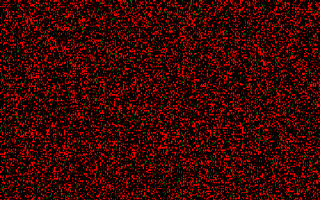
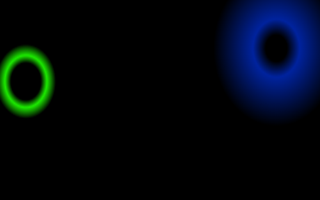
add new effect

diff --git a/effects/Bloom.html b/effects/Bloom.html
@@ -1,11 +1,20 @@
 <!DOCTYPE html><html>
 <head>
-    <title>ORGB: Bloom</title>
-    <meta description="Flower blooming effect.">
-    <meta publisher="Jose Miranda (Port and improvements)">
+    <title>Bloom</title>
+    <meta description="Growing flowers of light blooming to the rythm of your music.">
+    <meta publisher="Jose Miranda">
 
-    <meta property="speed" label="Speed" type="number" min="10" max="200" default="100">
-    <meta property="saturation" label="Saturation" type="number" min="0" max="255" default="255">
+    <meta property="soundResponsive" label="Sound Responsive" type="boolean" default="1">
+    <meta property="audio_trigger" label="Audio Trigger (%)" type="number" min="1" max="100" default="30">
+    
+    <meta property="palette" label="Color Palette" type="combobox" values="Audio-Reactive,Rainbow,Lava,Ocean,Forest,Party,Heat,America,Aurora,Beach,Breeze,Bumblebee,C9,Cloud,Fairy Light,Holiday,Pastel,Sakura,Sunset,Technicolor,Vaporwave" default="Audio-Reactive">
+    
+    <meta property="speed" label="Growth Speed" type="number" min="1" max="100" default="20">
+    <meta property="max_blooms" label="Max Blooms" type="number" min="1" max="50" default="10">
+    <meta property="max_size" label="Max Size" type="number" min="1" max="200" default="80">
+    <meta property="spawn_rate" label="Spawn Rate / Audio Gate" type="number" min="1" max="100" default="30">
+    <meta property="bloom_thickness" label="Bloom Thickness" type="number" min="1" max="100" default="20">
+    <meta property="saturation" label="Saturation (Audio/Rainbow)" type="number" min="0" max="255" default="255">
 
     <style>
         body, html {
@@ -18,10 +27,6 @@
             display: block;
             width: 100%;
             height: 100%;
-            image-rendering: -moz-crisp-edges;
-            image-rendering: -webkit-crisp-edges;
-            image-rendering: pixelated;
-            image-rendering: crisp-edges;
         }
     </style>
 
@@ -38,33 +43,122 @@
 
 const canvas = document.getElementById('bloom-canvas');
 const ctx = canvas.getContext('2d');
-
-// --- ADDED: Disable image smoothing ---
-ctx.imageSmoothingEnabled = false;
-ctx.mozImageSmoothingEnabled = false;
-ctx.webkitImageSmoothingEnabled = false;
-
 const canvasWidth = canvas.width;
 const canvasHeight = canvas.height;
 
-let flowers = []; // This will store the state for each "flower" (pixel)
+let flowers = []; // This will store our active flower objects
+let lastSpawnTime = 0;
 
 // -------------------------------------------------------------------
-// HELPER FUNCTIONS
+// COLOR PALETTES & HELPERS
 // -------------------------------------------------------------------
+
+const wledPalettes = {
+    "Rainbow": ["#FF0000", "#FFFF00", "#00FF00", "#00FFFF", "#0000FF", "#FF00FF"],
+    "Lava": ["#FF0000", "#FF4500", "#FFD700", "#000000"],
+    "Ocean": ["#00008B", "#0000CD", "#00BFFF", "#FFFFFF"],
+    "Forest": ["#006400", "#228B22", "#008000", "#556B2F"],
+    "Party": ["#FF0000", "#00FF00", "#0000FF", "#FFFF00", "#FF00FF", "#00FFFF"],
+    "Heat": ["#000000", "#FF0000", "#FFFF00", "#FFFFFF"],
+    "America": ["#B22234", "#FFFFFF", "#3C3B6E"],
+    "Aurora": ["#00FF00", "#00FFFF", "#8A2BE2", "#00008B"],
+    "Beach": ["#FDB813", "#F6D55C", "#79AEC8", "#EDF5E1", "#33658A"],
+    "Breeze": ["#87CEEB", "#ADD8E6", "#B0E0E6", "#FFFFFF"],
+    "Bumblebee": ["#000000", "#FEE12B", "#FEE12B", "#000000"],
+    "C9": ["#FF0000", "#00FF00", "#0000FF", "#FFA500", "#FFFFFF"],
+    "Cloud": ["#FFFFFF", "#D0D0E0", "#A0A0C0", "#7070A0", "#404080", "#101060", "#000040"],
+    "Fairy Light": ["#FF000080", "#00FF0080", "#0000FF80", "#FFFF0080"],
+    "Holiday": ["#D92626", "#0E592D", "#F2B705", "#F2F2F2"],
+    "Pastel": ["#FFDDC1", "#FFABAB", "#FFC3A0", "#FF869A", "#D4A5A5"],
+    "Sakura": ["#FFC0CB", "#FFB6C1", "#DB7093", "#FFFFFF", "#FF1493"],
+    "Sunset": ["#FF4500", "#FFA500", "#FFD700", "#FFFF00", "#FF69B4", "#8A2BE2", "#4B0082"],
+    "Technicolor": ["#FF0000", "#00FF00", "#0000FF", "#FFFFFF", "#000000"],
+    "Vaporwave": ["#FF71CE", "#B967FF", "#01CDFE", "#05FFA1", "#FFFB96"]
+};
 
 /**
- * Resets and initializes the state for every pixel.
- * Each pixel gets a random starting hue and a random speed multiplier.
+ * Converts Hex color string to [r, g, b] array
  */
-function resetFlowers() {
-    flowers = []; // Clear the existing array
-    for (let i = 0; i < canvasWidth * canvasHeight; i++) {
-        flowers.push({
-            hue: Math.random() * 360, // Random starting hue (0-360)
-            speed_mult: Math.random() + 1, // Random speed multiplier (1.0-2.0)
-        });
+function hexToRgb(hex) {
+    if (!hex) return [255, 0, 0]; // Fallback
+    const r = parseInt(hex.slice(1, 3), 16);
+    const g = parseInt(hex.slice(3, 5), 16);
+    const b = parseInt(hex.slice(5, 7), 16);
+    return [r, g, b];
+}
+
+/**
+ * Converts HSL color to RGB.
+ * h (0-360), s (0-100), l (0-100)
+ * Returns [r, g, b] array (0-255)
+ */
+function hslToRgb(h, s, l) {
+    s /= 100; // Convert to 0-1
+    l /= 100; // Convert to 0-1
+
+    let r, g, b;
+    if (s === 0) {
+        r = g = b = l; // Achromatic
+    } else {
+        const hue2rgb = (p, q, t) => {
+            if (t < 0) t += 1;
+            if (t > 1) t -= 1;
+            if (t < 1 / 6) return p + (q - p) * 6 * t;
+            if (t < 1 / 2) return q;
+            if (t < 2 / 3) return p + (q - p) * (2 / 3 - t) * 6;
+            return p;
+        };
+        const q = l < 0.5 ? l * (1 + s) : l + s - l * s;
+        const p = 2 * l - q;
+        r = hue2rgb(p, q, h / 360 + 1 / 3);
+        g = hue2rgb(p, q, h / 360);
+        b = hue2rgb(p, q, h / 360 - 1 / 3);
     }
+    return [Math.round(r * 255), Math.round(g * 255), Math.round(b * 255)];
+}
+
+/**
+ * Spawns a new flower.
+ * freqIndex of -1 means it's a random (non-audio) spawn.
+ */
+function spawnFlower(currentMaxBlooms, freqIndex) {
+    if (flowers.length >= currentMaxBlooms) {
+        return;
+    }
+
+    // Get palette setting (global var)
+    const currentPalette = palette; 
+    let newHue = 0;
+    let newColor = null; // Will store an [r,g,b] array if a palette is used
+
+    if (currentPalette === 'Audio-Reactive') {
+        if (freqIndex !== -1) {
+            // Map frequency (0-50) to hue (0-360)
+            newHue = (freqIndex / 50) * 360;
+        } else {
+            newHue = Math.random() * 360; // Fallback for random spawns
+        }
+    } else if (currentPalette === 'Rainbow') {
+        newHue = Math.random() * 360;
+    } else {
+        // A specific WLED palette is chosen
+        const paletteData = wledPalettes[currentPalette];
+        if (paletteData) {
+            const randomColorHex = paletteData[Math.floor(Math.random() * paletteData.length)];
+            newColor = hexToRgb(randomColorHex);
+        } else {
+            // Fallback if palette is somehow missing (e.g., Audio-Reactive)
+            newHue = Math.random() * 360;
+        }
+    }
+
+    flowers.push({
+        x: Math.random() * canvasWidth,
+        y: Math.random() * canvasHeight,
+        hue: newHue, // Used if newColor is null
+        color: newColor, // Used if a palette is selected
+        radius: 0
+    });
 }
 
 // -------------------------------------------------------------------
@@ -73,6 +167,18 @@ function resetFlowers() {
 
 let lastTime = 0;
 function update(currentTime) {
+    // --- BROWSER/STARTUP FIX: Initialize meta properties if undefined ---
+    if (typeof soundResponsive === 'undefined') soundResponsive = 1; // Default to on (1)
+    if (typeof audio_trigger === 'undefined') audio_trigger = 30;
+    if (typeof palette === 'undefined') palette = "Audio-Reactive";
+    if (typeof speed === 'undefined') speed = 20;
+    if (typeof max_blooms === 'undefined') max_blooms = 10;
+    if (typeof max_size === 'undefined') max_size = 80;
+    if (typeof spawn_rate === 'undefined') spawn_rate = 30;
+    if (typeof bloom_thickness === 'undefined') bloom_thickness = 20;
+    if (typeof saturation === 'undefined') saturation = 255;
+    // --- End of Fix ---
+
     const deltaTime = (currentTime - lastTime) / 1000;
     lastTime = currentTime;
 
@@ -80,53 +186,98 @@ function update(currentTime) {
         requestAnimationFrame(update);
         return;
     }
-
-    // --- ADDED: Fallbacks for meta properties ---
-    const currentSpeed = typeof speed !== 'undefined' ? speed : 100;
-    const currentSaturation = typeof saturation !== 'undefined' ? saturation : 255;
-
-    // This ensures that if the device layout changes, the effect resets properly.
-    if (flowers.length !== canvasWidth * canvasHeight) {
-        resetFlowers();
-    }
     
-    const imageData = ctx.createImageData(canvasWidth, canvasHeight);
-    const data = imageData.data;
-    
-    // Calculate the hue change for this frame
-    const hue_change = (currentSpeed / 10) * deltaTime;
+    // Normalize properties
+    const satPercent = saturation / 2.55;
+    const growthAmount = (speed / 10) * deltaTime * 60; // Normalized to 60fps
+    const thicknessPercent = Math.max(0.01, bloom_thickness / 100);
 
-    // Update and draw each flower
-    for (let i = 0; i < flowers.length; i++) {
+    // Draw a black background
+    ctx.globalCompositeOperation = 'source-over';
+    ctx.fillStyle = 'black';
+    ctx.fillRect(0, 0, canvasWidth, canvasHeight);
+
+    // Set to 'lighter' for a nice additive blending effect
+    ctx.globalCompositeOperation = 'lighter';
+
+    // Update and draw all flowers
+    for (let i = flowers.length - 1; i >= 0; i--) {
         const flower = flowers[i];
+        flower.radius += growthAmount;
 
-        // Update the hue based on its unique speed and the master speed control
-        flower.hue = (flower.hue + hue_change * flower.speed_mult) % 360;
+        if (flower.radius > max_size) {
+            flowers.splice(i, 1);
+            continue;
+        }
 
-        // Set the color in the image buffer using HSL color space
-        const color = `hsl(${flower.hue}, ${currentSaturation / 2.55}%, 50%)`;
+        // --- Draw the bloom ---
+        let r, g, b;
+        if (flower.color) {
+            [r, g, b] = flower.color;
+        } else {
+            flower.hue = (flower.hue + 0.2) % 360;
+            [r, g, b] = hslToRgb(flower.hue, satPercent, 50);
+        }
         
-        // This is a simple way to convert CSS color to RGB for the canvas buffer
-        ctx.fillStyle = color; // Use the context to parse the color
-        const rgbMatch = ctx.fillStyle.match(/\d+/g); // Extract [r, g, b]
+        const progress = flower.radius / max_size;
+        const opacity = Math.sin((1 - progress) * Math.PI);
+        const grad = ctx.createRadialGradient(flower.x, flower.y, 0, flower.x, flower.y, flower.radius);
+        
+        const innerEdge = Math.max(0, 1 - thicknessPercent - (progress * (1 - thicknessPercent)));
+        const outerEdge = Math.min(1, innerEdge + thicknessPercent);
 
-        if (rgbMatch) {
-            const index = i * 4;
-            data[index] = rgbMatch[0];
-            data[index + 1] = rgbMatch[1];
-            data[index + 2] = rgbMatch[2];
-            data[index + 3] = 255; // Alpha
+        grad.addColorStop(0, `rgba(${r},${g},${b},0)`);
+        grad.addColorStop(innerEdge, `rgba(${r},${g},${b},0)`);
+        grad.addColorStop(outerEdge, `rgba(${r},${g},${b},${opacity})`);
+        grad.addColorStop(1, `rgba(${r},${g},${b},0)`);
+
+        ctx.fillStyle = grad;
+        ctx.beginPath();
+        ctx.arc(flower.x, flower.y, flower.radius, 0, 2 * Math.PI);
+        ctx.fill();
+    }
+
+    // --- SPAWNING LOGIC (FINAL) ---
+    
+    const hasAudioEngine = (typeof engine !== 'undefined' && engine.audio && engine.audio.freq);
+    const spawnChance = (spawn_rate / 10) * deltaTime;
+    const spawnCooldown = 1000 / (spawn_rate / 10);
+
+    // Check for 1 (true, "true", or 1). This is the 'ON' state.
+    if (soundResponsive == 1 && hasAudioEngine) {
+        // --- Audio-based spawning ---
+        const audioData = new Int8Array(engine.audio.freq);
+        const triggerValue = (audio_trigger / 100.0) * 128.0;
+        let maxAmp = 0;
+        let maxFreqIndex = -1;
+        
+        for (let i = 2; i < 50; i++) {
+            const amp = Math.abs(audioData[i]);
+            if (amp > maxAmp) {
+                maxAmp = amp;
+                maxFreqIndex = i;
+            }
+        }
+        
+        if (maxAmp > triggerValue && (currentTime - lastSpawnTime > spawnCooldown)) {
+            spawnFlower(max_blooms, maxFreqIndex);
+            lastSpawnTime = currentTime;
+        }
+    } 
+    else {
+        // --- Random-based spawning ---
+        // This runs if:
+        // 1) Sound Responsive is OFF (0, "0", false, "false").
+        // 2) Sound Responsive is ON, but we're in a browser (no audio engine).
+        if (Math.random() < spawnChance) {
+            spawnFlower(max_blooms, -1);
         }
     }
-
-    // Draw the completed frame to the canvas at once
-    ctx.putImageData(imageData, 0, 0);
 
     requestAnimationFrame(update);
 }
 
-// Initial setup and first call to start the animation
-resetFlowers();
+// Initial call to start the animation
 requestAnimationFrame(update);
 
 </script>